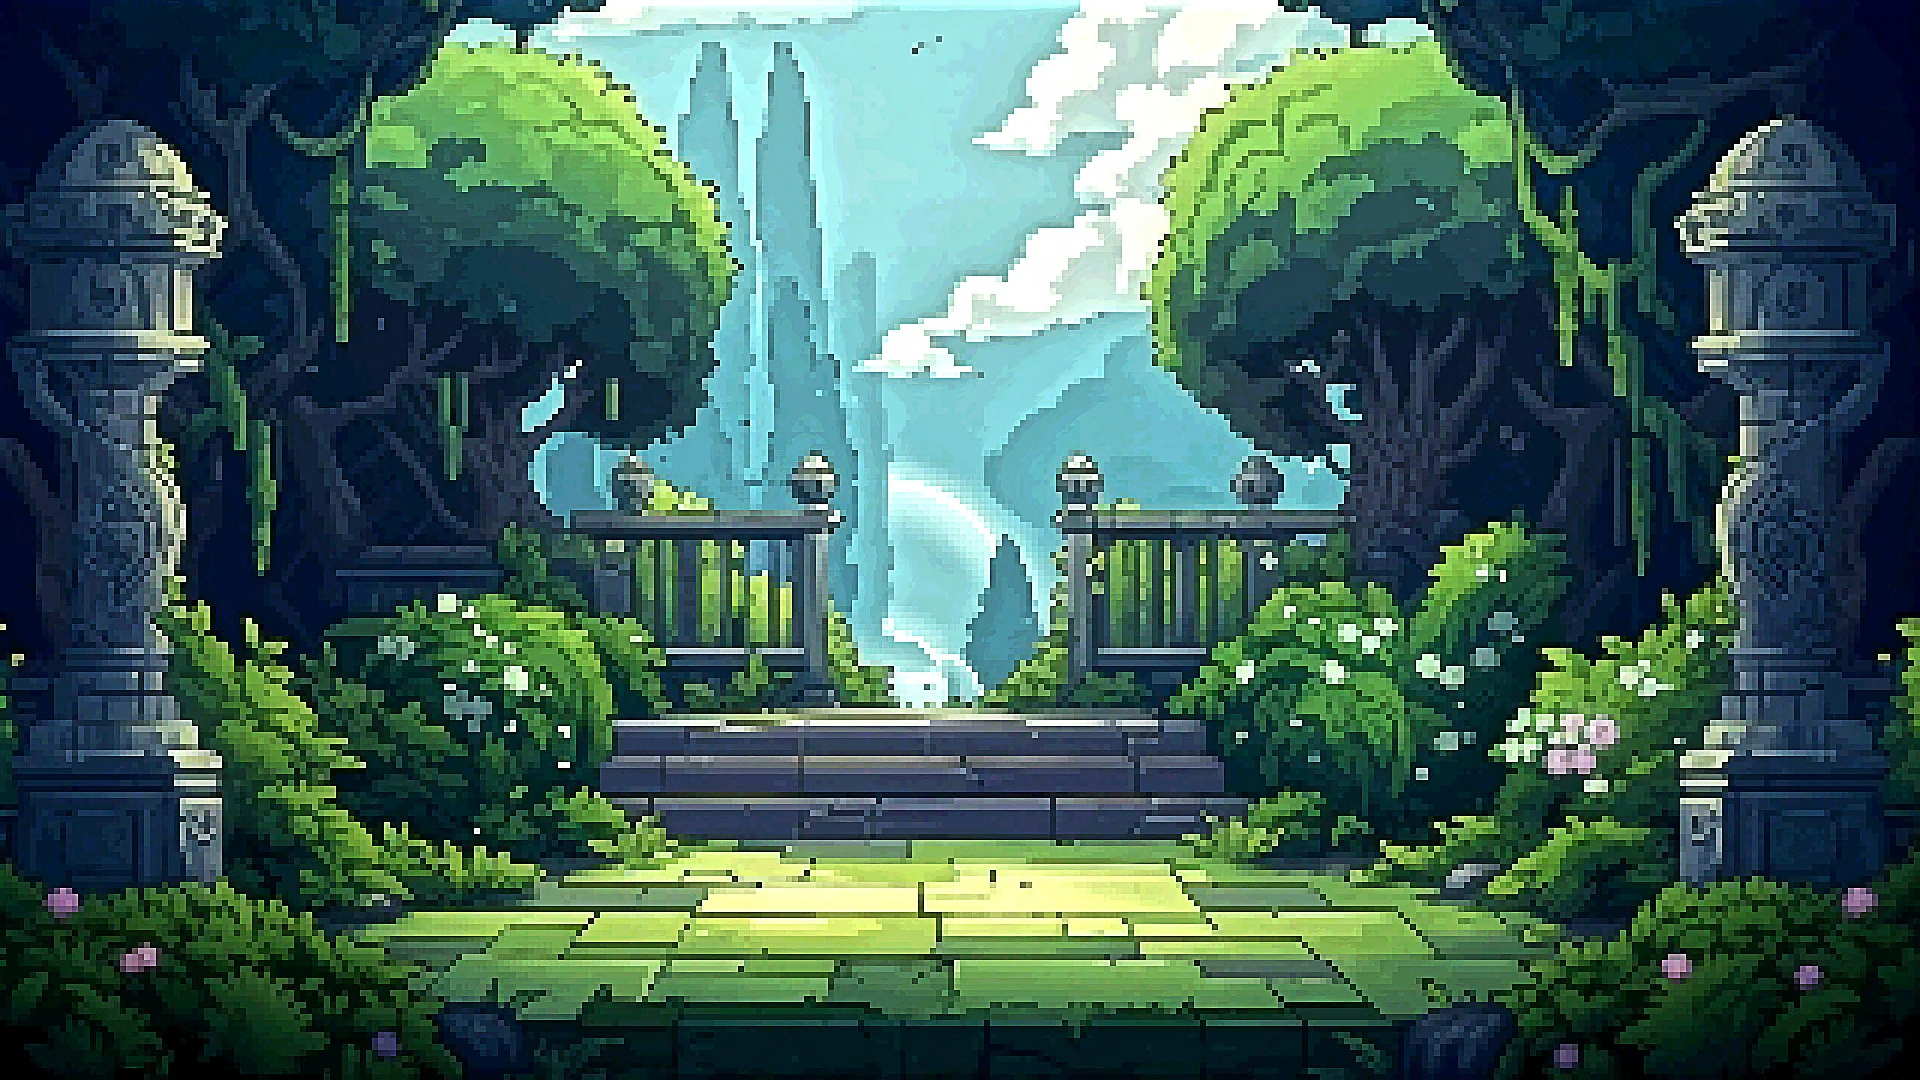
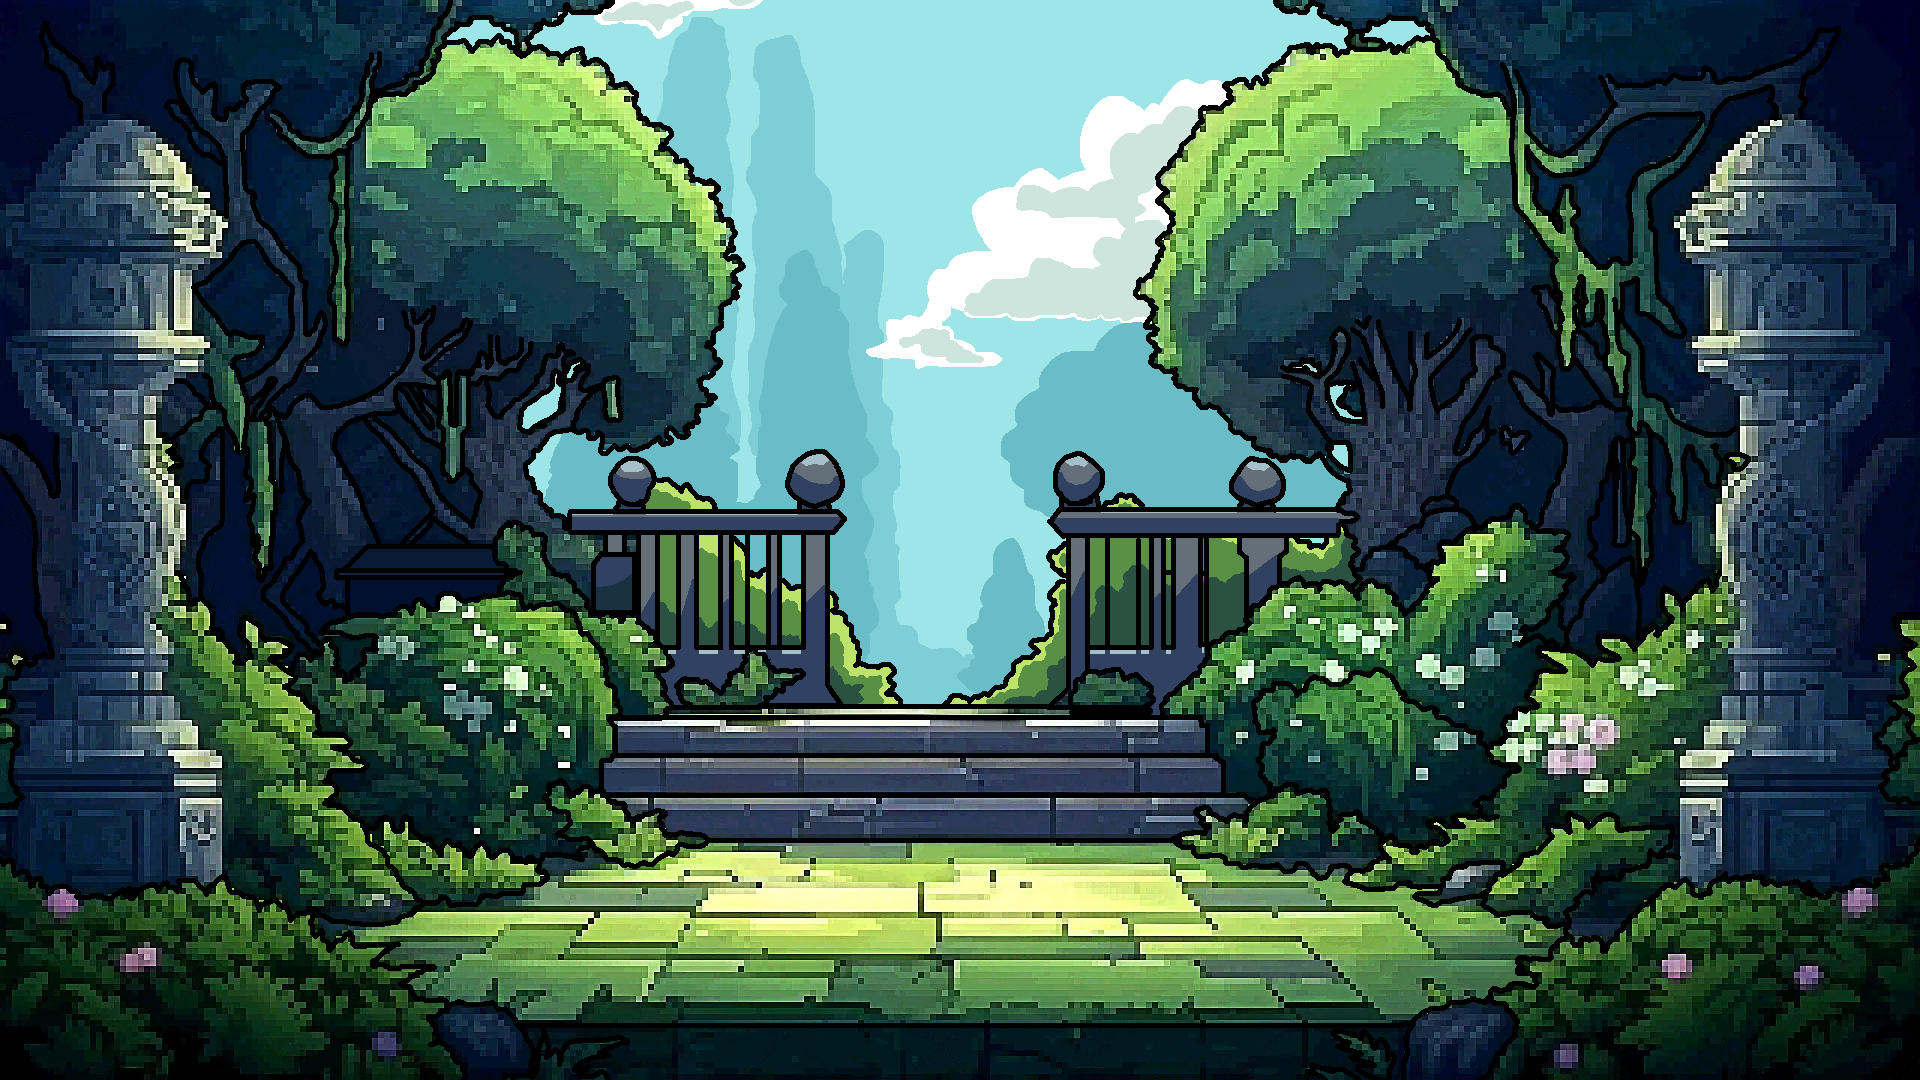
improved background and added end screen with restart level and return to main menu buttons.

diff --git a/main.py b/main.py
@@ -490,6 +490,7 @@ class SecondLevel:
         self.time_limit = 15
         self.current_time = 0
         self.timer_started = False
+        self.game_over = False
 
         # Track current round
         self.rounds_completed = 0
@@ -653,6 +654,7 @@ class SecondLevel:
             # self.gameStateManager.set_state('win')
             print("Level done. Showing end screen")
             self.show_end_screen()
+            self.game_over = True
 
     def show_end_screen(self):
         self.display.fill((0, 0, 0))
@@ -679,66 +681,92 @@ class SecondLevel:
     def run(self):
         self.current_time = self.time_limit
         running = True
+        self.game_over = False
         while running:
             for event in pygame.event.get():
                 if event.type == pygame.QUIT:
                     pygame.quit()
                     sys.exit()
-                elif event.type == pygame.KEYDOWN:
-                    if event.key == pygame.K_ESCAPE:
-                        self.gameStateManager.set_state('main-menu')
-                        running = False
-                    elif event.key == pygame.K_RETURN:
-                        if self.check_rhyme():
-                            self.current_animation = 'attack'
-                            self.reset_round()
-                        else:
-                            # self.lives -= 1
-                            if self.lives <= 0:
-                                self.gameStateManager.set_state('main-menu')
-                                running = False
+                elif not self.game_over:  # Only handle gameplay input if the game is not over
+                    if event.type == pygame.KEYDOWN:
+                        if event.key == pygame.K_ESCAPE:
+                            self.gameStateManager.set_state('main-menu')
+                            running = False
+                        elif event.key == pygame.K_RETURN:
+                            if self.check_rhyme():
+                                self.current_animation = 'attack'
+                                self.reset_round()
                             else:
-                                self.input_text = ''
-                    elif event.key == pygame.K_BACKSPACE:
-                        self.input_text = self.input_text[:-1]
-                    else:
-                        self.input_text += event.unicode
-                elif event.type == pygame.MOUSEBUTTONDOWN:
-                    if self.speaker_rect.collidepoint(event.pos):
-                        self.pronounce_word()
+                                # self.lives -= 1
+                                if self.lives <= 0:
+                                    self.game_over = True
+                                else:
+                                    self.input_text = ''
+                        elif event.key == pygame.K_BACKSPACE:
+                            self.input_text = self.input_text[:-1]
+                        else:
+                            self.input_text += event.unicode
+                    elif event.type == pygame.MOUSEBUTTONDOWN:
+                        if self.speaker_rect.collidepoint(event.pos):
+                            self.pronounce_word()
+                else:
+                    # Handle clicks on the restart or exit buttons after the game is over
+                    if event.type == pygame.MOUSEBUTTONDOWN:
+                        if self.restart_button.collidepoint(event.pos):
+                            # Restart the game
+                            self.lives = 3
+                            self.rounds_completed = 0
+                            self.current_flower_word = self.flower_words[self.rounds_completed]
+                            self.input_text = ''
+                            self.current_time = self.time_limit
+                            self.game_over = False  # Exit end screen mode
+                        elif self.exit_button.collidepoint(event.pos):
+                            self.gameStateManager.set_state('main-menu')
+                            running = False
+
+            # Update the warrior animation frame
+            self.warrior_frame_time += self.clock.get_time() / 1000.0  # Increment frame time
+            if self.warrior_frame_time >= self.warrior_animation_speed:  # Check if it's time to update the frame
+                self.warrior_current_frame = (self.warrior_current_frame + 1) % len(
+                    self.warrior_frames)  # Move to the next frame
+                self.warrior_frame_time = 0  # Reset frame time
 
             # Update the timer
             time_passed = pygame.time.get_ticks() - self.last_time
             self.current_time -= time_passed / 1000.0
             self.last_time = pygame.time.get_ticks()
 
-            if self.current_time <= 0:
-                self.lives -= 1
-                if self.lives <= 0:
-                    # self.gameStateManager.set_state('main-menu')
-                    self.show_end_screen()
-                    running = False
-                else:
-                    self.reset_round()
+            if not self.game_over:
+                # Update the timer
+                time_passed = pygame.time.get_ticks() - self.last_time
+                self.current_time -= time_passed / 1000.0
+                self.last_time = pygame.time.get_ticks()
 
-            # Update the warrior animation frame
-            self.warrior_frame_time += self.clock.get_time() / 1000.0  # Increment frame time
-            if self.warrior_frame_time >= self.warrior_animation_speed:  # Check if it's time to update the frame
-                self.warrior_current_frame = (self.warrior_current_frame + 1) % len(self.warrior_frames)  # Move to the next frame
-                self.warrior_frame_time = 0  # Reset frame time
+                if self.current_time <= 0:
+                    self.lives -= 1
+                    if self.lives <= 0:
+                        self.game_over = True
+                    else:
+                        self.reset_round()
 
-            self.update_animation()
+                # Update the warrior animation frame
+                self.update_animation()
 
-            # Redraw everything
-            self.display.blit(self.background, (0, 0))
-            self.draw_hearts()
-            self.draw_timer(self.current_time)
-            self.draw_enemy()
-            self.draw_text_box()
-            self.draw_warrior()  # Draw animated warrior
-            self.draw_speaker()
+                # Redraw everything
+                self.display.blit(self.background, (0, 0))
+                self.draw_hearts()
+                self.draw_timer(self.current_time)
+                self.draw_enemy()
+                self.draw_text_box()
+                self.draw_warrior()  # Draw animated warrior
+                self.draw_speaker()
+
+            else:
+                # Show the end screen
+                self.show_end_screen()
+
             pygame.display.update()
-            self.clock.tick(FPS)  # Cap frame rate at 60 FPS
+            self.clock.tick(60)  # Cap frame rate at 60 FPS
 
 
 
